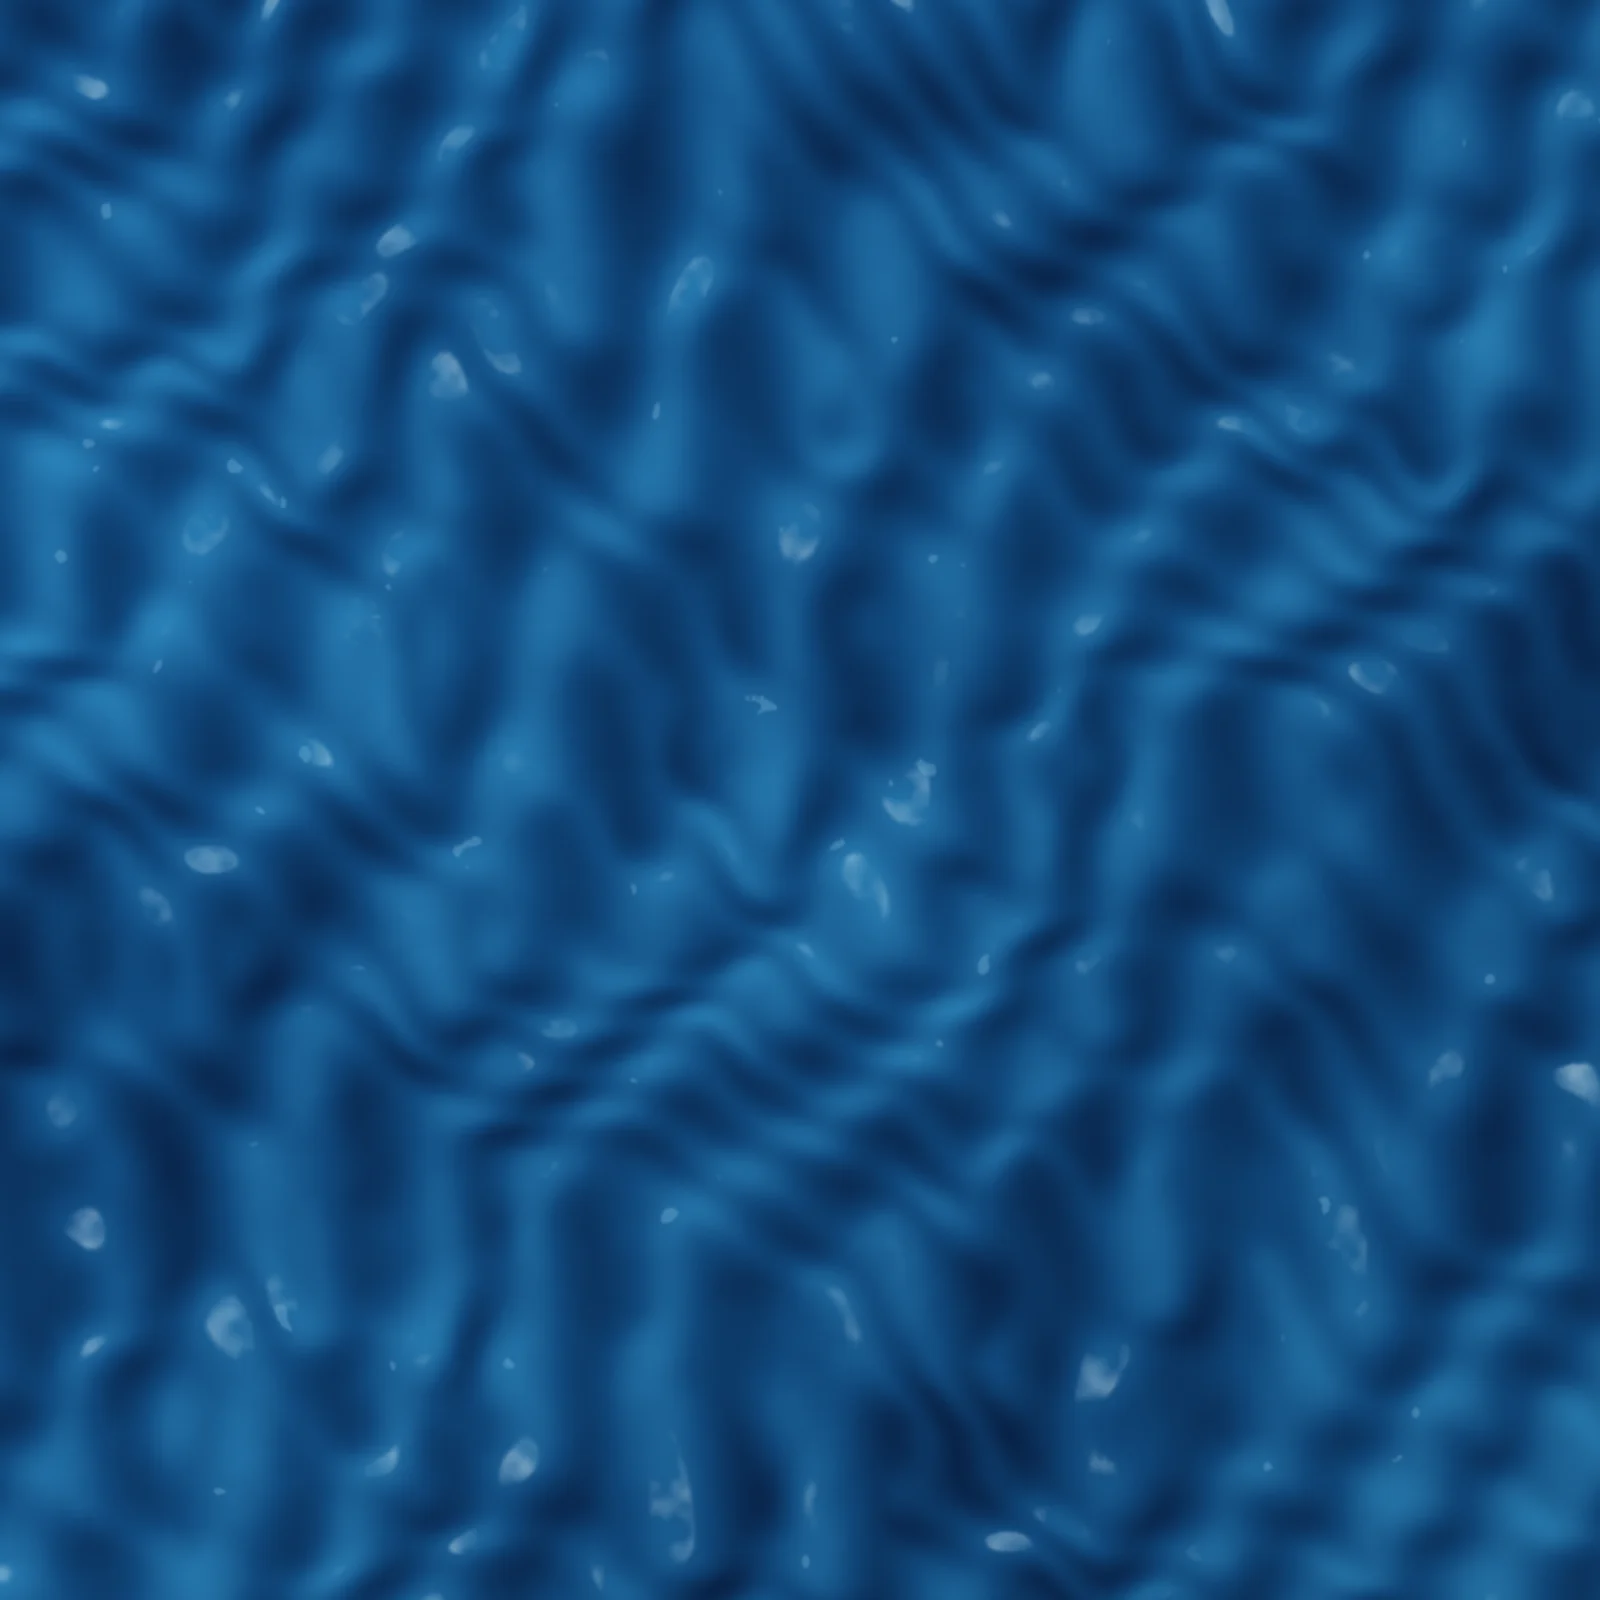
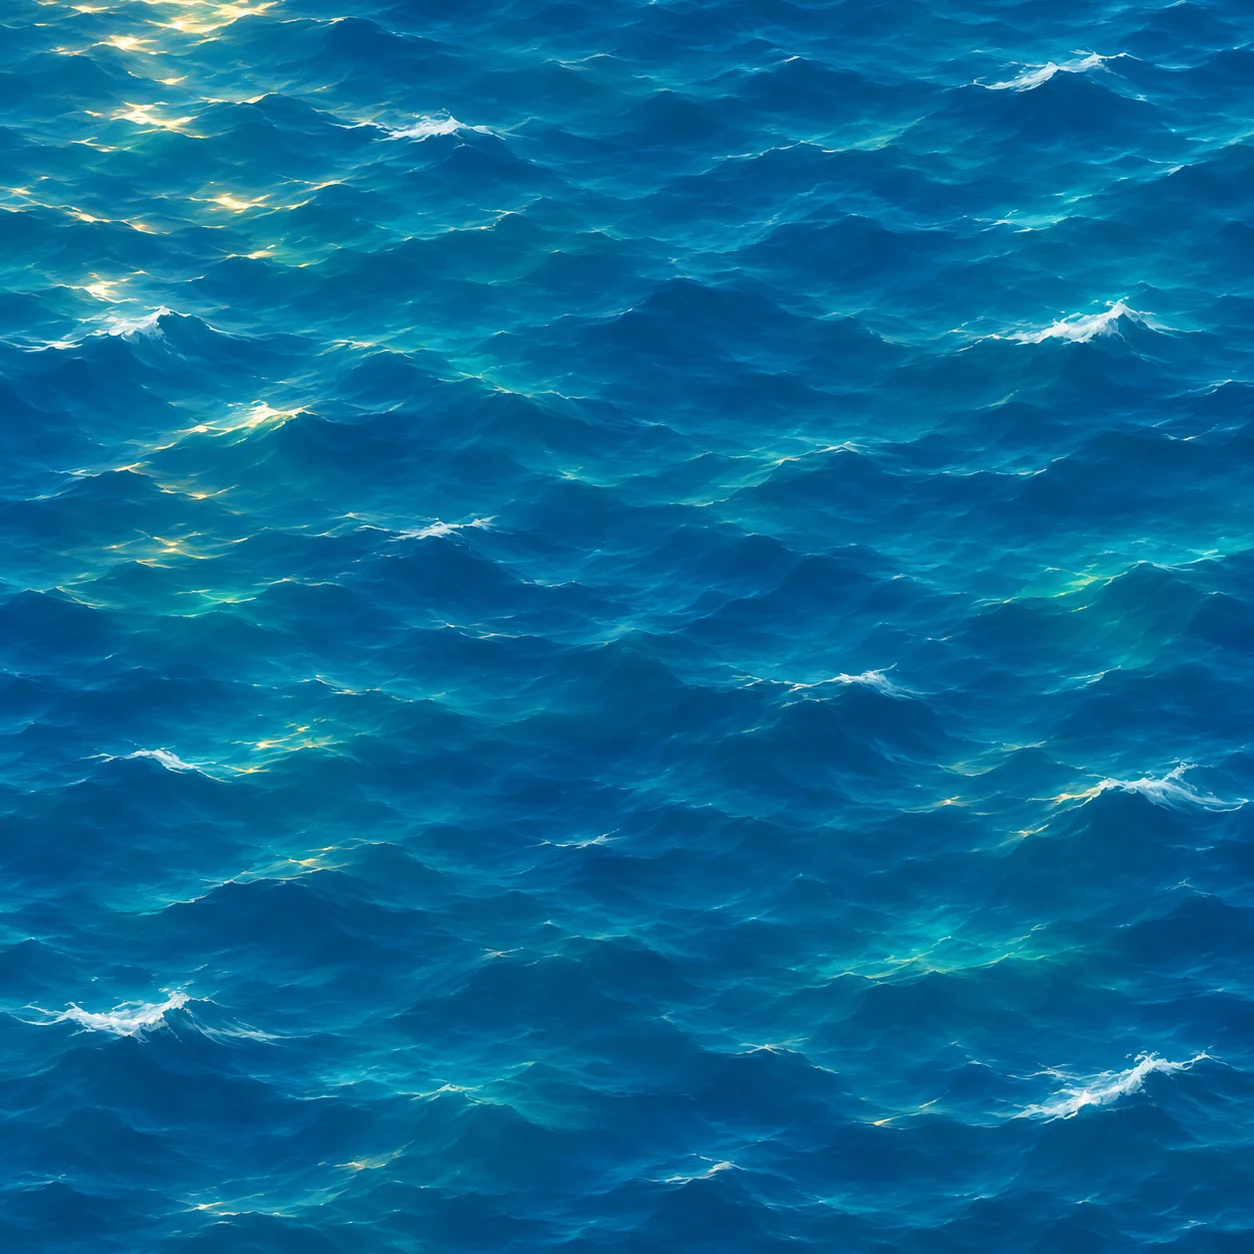
ChatGPT art: Battleship ocean square, Trolley Problem trolley/lever/thinker
Claude-Session: https://claude.ai/code/session_01Hu6NgTm1otXw1kivGsbT5r

diff --git a/site/public/games/trolley-problem/scene.js b/site/public/games/trolley-problem/scene.js
@@ -16,44 +16,23 @@ function rails(d, id) {
     <path d="${d}" fill="none" stroke="#7a5b3f" stroke-width="5"/>`;
 }
 
-const tram = `
-  <g class="tp-tram">
-    <line x1="-20" y1="-128" x2="30" y2="-190" stroke="#3a3a3a" stroke-width="5"/>
-    <circle cx="30" cy="-190" r="5" fill="#3a3a3a"/>
-    <rect x="-95" y="-120" width="190" height="98" rx="20" fill="#d6453d"/>
-    <rect x="-95" y="-120" width="190" height="22" rx="11" fill="#f2c230"/>
-    <rect x="-82" y="-90" width="44" height="36" rx="7" fill="#cfe8ff" stroke="#8a2620" stroke-width="3"/>
-    <rect x="-27" y="-90" width="44" height="36" rx="7" fill="#cfe8ff" stroke="#8a2620" stroke-width="3"/>
-    <rect x="28" y="-90" width="44" height="36" rx="7" fill="#cfe8ff" stroke="#8a2620" stroke-width="3"/>
-    <rect x="-95" y="-44" width="190" height="12" fill="#8a2620"/>
-    <circle cx="88" cy="-62" r="8" fill="#fff6c9" stroke="#8a2620" stroke-width="2"/>
-    <circle cx="-55" cy="-16" r="16" fill="#2d2d2d"/><circle cx="-55" cy="-16" r="6" fill="#999"/>
-    <circle cx="55" cy="-16" r="16" fill="#2d2d2d"/><circle cx="55" cy="-16" r="6" fill="#999"/>
-  </g>`;
+const ART = 'games/trolley-problem/art';
+const tram = `<g class="tp-tram"><image href="${ART}/trolley.webp" x="-122" y="-124" width="244" height="128"/></g>`;
 
 /** The person at the lever, wondering. */
 const thinker = `
-  <g transform="translate(560 520)">
-    <ellipse cx="0" cy="34" rx="34" ry="7" fill="rgba(0,0,0,.18)"/>
-    <rect x="-17" y="-8" width="14" height="40" rx="7" fill="#2b4a7a"/><rect x="3" y="-8" width="14" height="40" rx="7" fill="#2b4a7a"/>
-    <rect x="-22" y="-62" width="44" height="60" rx="18" fill="#3fa66a"/>
-    <circle cx="0" cy="-86" r="24" fill="#f1c7a0"/>
-    <path d="M-24 -92 Q0 -124 24 -92 Q12 -104 0 -102 Q-12 -104 -24 -92Z" fill="#5a3a22"/>
-    <circle cx="-8" cy="-86" r="3" fill="#222"/><circle cx="8" cy="-86" r="3" fill="#222"/>
-    <path d="M-7 -74 Q0 -70 7 -74" stroke="#222" stroke-width="2.5" fill="none" stroke-linecap="round"/>
-    <path d="M18 -52 Q44 -50 52 -66" stroke="#f1c7a0" stroke-width="11" fill="none" stroke-linecap="round" class="tp-arm"/>
-    <g class="tp-think"><circle cx="30" cy="-122" r="5" fill="#fff"/><circle cx="44" cy="-138" r="8" fill="#fff"/>
-      <ellipse cx="72" cy="-166" rx="30" ry="22" fill="#fff"/><text x="72" y="-157" text-anchor="middle" font-size="28" font-weight="900" fill="#22201b">?</text></g>
+  <g transform="translate(575 528)">
+    <ellipse cx="0" cy="0" rx="36" ry="7" fill="rgba(0,0,0,.2)"/>
+    <image href="${ART}/thinker.webp" x="-33" y="-172" width="66" height="172"/>
+    <g class="tp-think"><circle cx="30" cy="-178" r="5" fill="#fff"/><circle cx="44" cy="-194" r="8" fill="#fff"/>
+      <ellipse cx="72" cy="-222" rx="30" ry="22" fill="#fff"/><text x="72" y="-213" text-anchor="middle" font-size="28" font-weight="900" fill="#22201b">?</text></g>
   </g>`;
 
 /** The lever: tilted left (straight track) or right (pulled). */
 const lever = (pulled) => `
-  <g transform="translate(470 500)">
-    <rect x="-26" y="-6" width="52" height="22" rx="6" fill="#5b5b5b"/>
-    <g class="tp-lever ${pulled ? 'pulled' : ''}">
-      <rect x="-4" y="-70" width="8" height="70" rx="4" fill="#3a3a3a"/>
-      <circle cx="0" cy="-74" r="11" fill="#d6453d"/>
-    </g>
+  <g transform="translate(478 512)">
+    <ellipse cx="0" cy="2" rx="40" ry="6" fill="rgba(0,0,0,.2)"/>
+    <g class="tp-lever ${pulled ? 'pulled' : ''}"><image href="${ART}/lever.webp" x="-38" y="-92" width="76" height="92"/></g>
   </g>`;
 
 /**
@@ -110,8 +89,9 @@ export const sceneCss = `
   .tp-scene .tp-fx { z-index: 2; pointer-events: none; }
   .tp-scene:not(.go) .tp-tram { animation: tp-idle 1.6s ease-in-out infinite; }
   @keyframes tp-idle { 50% { transform: translateY(-2px); } }
-  .tp-lever { transform-origin: 0 0; transform: rotate(-28deg); transition: transform .5s cubic-bezier(.3,1.6,.5,1); }
-  .tp-lever.pulled { transform: rotate(28deg); }
+  .tp-lever { transform-box: fill-box; transform-origin: 50% 100%; }
+  .tp-lever.pulled { animation: tp-pull .5s .2s cubic-bezier(.3,1.6,.5,1) both; }
+  @keyframes tp-pull { from { transform: scaleX(1); } to { transform: scaleX(-1); } }
   .go .tp-think { display: none; }
   .tp-boom { opacity: 0; animation: tp-boom .5s 2.2s ease-out forwards; transform-box: fill-box; transform-origin: center; }
   .go-tie .tp-boom { animation-delay: 1.1s; }
